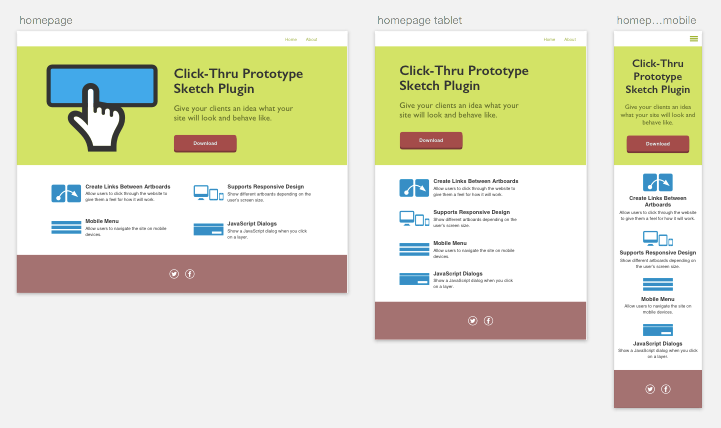
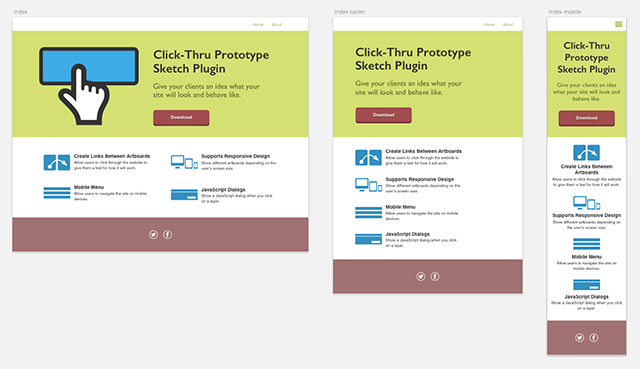
Added a screencast to the readme

Changed region(s): [[0.0, 0.0298, 1.0, 0.9837], [0.0, 0.4173, 0.5, 0.6856], [0.5312, 0.7154, 0.8438, 0.8049]]

diff --git a/Click-Thru Prototype.sketchplugin/Contents/Sketch/utils.js b/Click-Thru Prototype.sketchplugin/Contents/Sketch/utils.js
@@ -128,7 +128,7 @@ Utils.tab = function(count, tabSize) {
 Utils.getArtboardNameParts = function(artboard, artboards) {
   for (var i = 0; i < artboards.length; i++) {
     var itArtboard = artboards[i]
-    var retVals = Utils._getArtboardPartNames(artboard.name(), itArtboard.name())
+    var retVals = Utils._getArtboardNameParts(artboard.name(), itArtboard.name())
     if (retVals != null) {
       return retVals
     }
@@ -136,7 +136,7 @@ Utils.getArtboardNameParts = function(artboard, artboards) {
   return null
 }
 
-Utils._getArtboardPartNames = function(str1, str2) {
+Utils._getArtboardNameParts = function(str1, str2) {
   str1 = String(str1)
   str2 = String(str2)
   if (str1 == str2) {

diff --git a/README.md b/README.md
@@ -2,6 +2,8 @@
 
 A Sketch plugin that creates a HTML click-through prototype of a website design so you can give your clients an idea what the website will look like. [Here's an example of a website](https://markhorgan.github.io/click-thru-prototype) generated by the plugin. Change the width of the browser to see the different responsive designs.
 
+<img src="images/screencast.gif" alt="Screencast">
+
 ## Installation
 
 To install, [download the zip file](https://github.com/markhorgan/click-thru-prototype/archive/master.zip) and double-click on `Click-Thru Prototype.sketchplugin`. The commands will show up under `Plugins > Click-Thru Prototype`. To see it in action, open `demo.sketch` and then select `Plugins > Click-Thru Prototype > Export to HTML` or have a look at the generated website in the `docs` folder.
@@ -12,7 +14,7 @@ You can create links between artboards, add external links or show a JavaScript 
  
 ### Responsive Design 
  
-The plugin can handle responsive design, you just need to start your artboards with the same name e.g. `homepage`, `homepage tablet`, `homepage mobile`. When you change the width of your browser it will show a different artboard in the exported website. 
+The plugin can handle responsive design, you just need to start your artboards with the same name e.g. `index`, `index tablet`, `index mobile`. When you change the width of your browser it will show a different artboard in the exported website. 
  
 <img src="images/artboards.png" alt="Responsive artboards">
 
